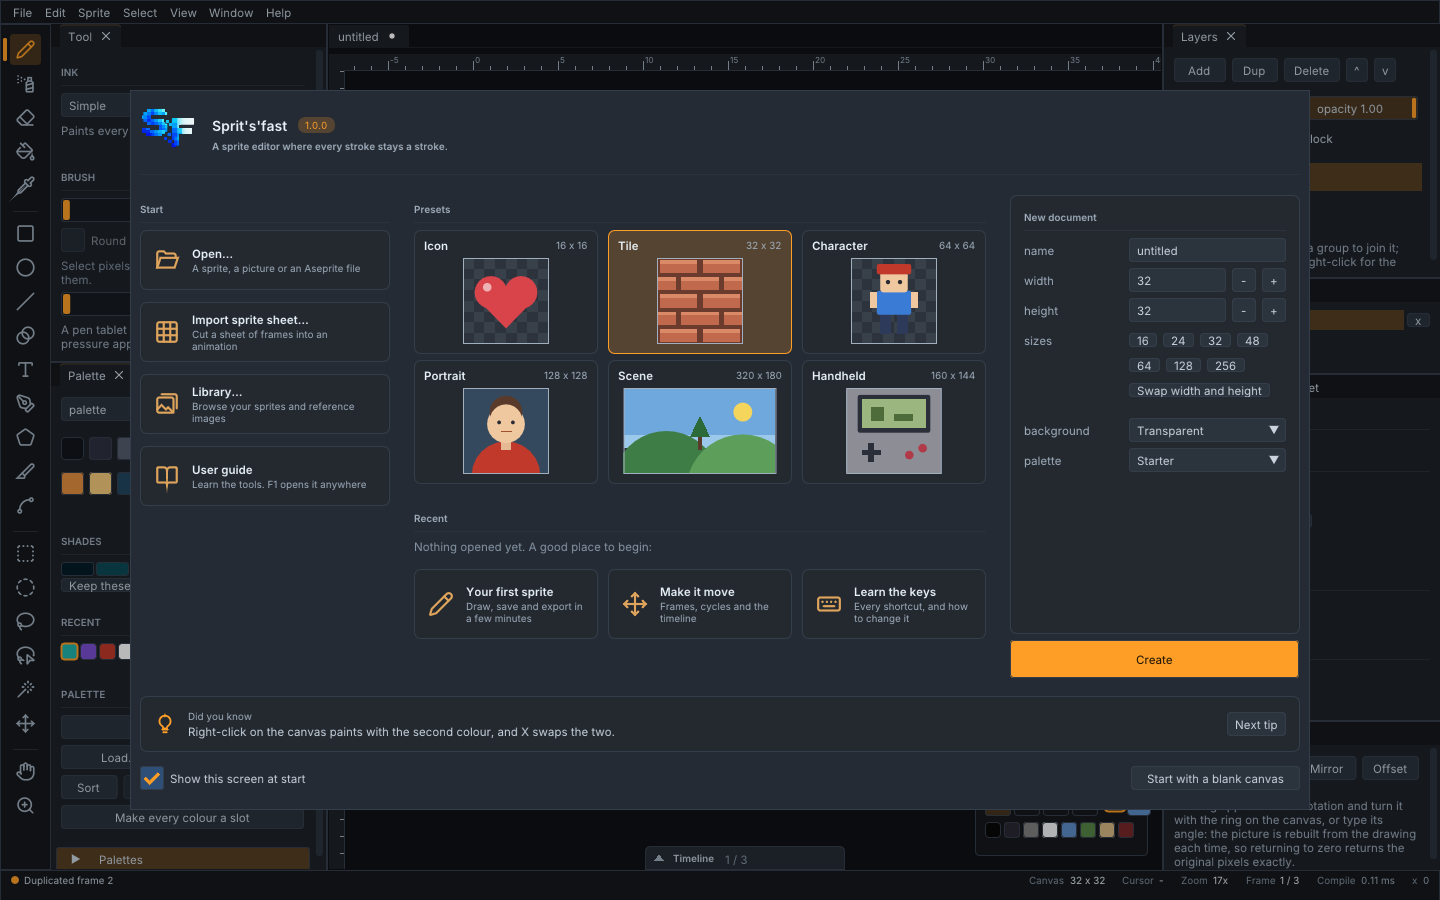
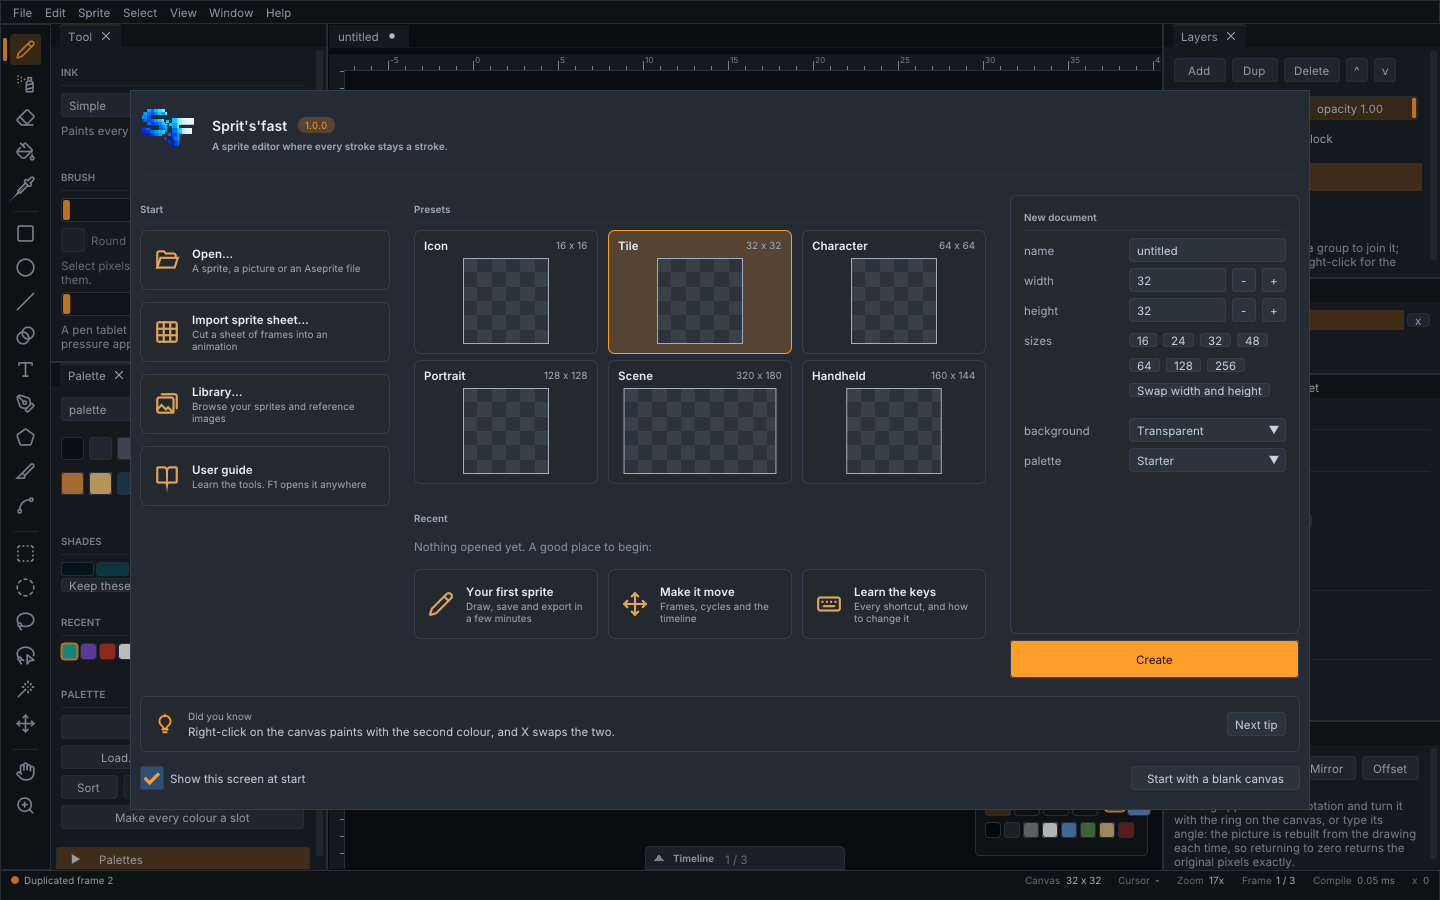
File > New is the start screen, and the preset illustrations are gone
New and Ctrl+N brought up a second, plainer window asking the questions the start screen asks. They now
bring up the start screen, with the same answers as they were left, and the old window and the state behind it
are removed.

The pictures on the preset cards (a heart, bricks, a figure, a face, a landscape, a handheld) were vector shapes
standing in for pixel art and did not look right; they are taken out, and the cards are the canvas in its proportions
on the chequer again, until there are real pixel examples to put there. The gallery loses its separate New screen
(it is the start screen), and the scripts that went through the old window wait for the start screen. The Store
screenshot of the start screen is taken again.

diff --git a/src/ui/start_screen.cpp b/src/ui/start_screen.cpp
@@ -11,7 +11,6 @@
 #include "app/tips.h"
 #include "ui/new_document.h"
 #include "ui/reference_cache.h"
-#include "ui/start_art.h"
 #include "ui/tabs.h"
 #include "ui/theme.h"
 #include "ui/thumbnails.h"
@@ -48,7 +47,7 @@ Branding& branding() {
     return b;
 }
 
-// The start screen asks the New window's questions in a panel of its own, over
+// The start screen asks File > New's questions in a panel of its own (File > New brings it up), over
 // the very same answers (Editor::files.newDocument): a template card fills
 // them in, the fields change them, and Create makes the document from them.
 void createFromAnswers(Editor& editor, CanvasView& canvas, SDL_Window* window) {
@@ -225,8 +224,8 @@ void drawActions(Editor& editor, CanvasView& canvas, SDL_Window* window) {
 // --- the middle: a new canvas, and what was being worked on --------------------------
 
 // One preset: its name and size, and the canvas it makes in its proportions (each fitted
-// to the card, not to one another) on the chequer the canvas will show, with a picture of
-// what the size is for. `chosen` is set by a press, `doubled` by a double press.
+// to the card, not to one another) on the chequer the canvas will show. `chosen` is set by
+// a press, `doubled` by a double press.
 void drawCard(const Editor& editor, const NewTemplate& t, const ImVec2& size, bool selected,
               bool* chosen, bool* doubled) {
     const theme::Palette& c = theme::palette();
@@ -280,7 +279,7 @@ void drawCard(const Editor& editor, const NewTemplate& t, const ImVec2& size, bo
     const ImU32 light = rgb(editor.prefs.checkerLight);
     const ImU32 dark = rgb(editor.prefs.checkerDark);
     draw->AddRectFilled(from, to, dark);
-    const float square = std::max(4.f, std::min(shape.x, shape.y) / 8.f);
+    const float square = std::max(4.f, std::min(shape.x, shape.y) / 6.f);
     draw->PushClipRect(from, to, true);
     for (float y = 0.f; y < shape.y; y += square) {
         for (float x = 0.f; x < shape.x; x += square) {
@@ -291,7 +290,6 @@ void drawCard(const Editor& editor, const NewTemplate& t, const ImVec2& size, bo
         }
     }
     draw->PopClipRect();
-    drawPresetArt(draw, t.name, from, to);
     draw->AddRect(from, to, u32(c.textDim));
 }
 

diff --git a/src/ui/dialogs.cpp b/src/ui/dialogs.cpp
@@ -1,7 +1,7 @@
 // SPDX-License-Identifier: Apache-2.0
 // Copyright (c) 2026 the Sprit's'fast authors
 
-// dialogs.cpp -- the windows that open from the menus: the sheet import, canvas and sprite size, adjust colours, modify selection, history, text, new document.
+// dialogs.cpp -- the windows that open from the menus: the sheet import, canvas and sprite size, adjust colours, modify selection, history and text. (New is the start screen.)
 // See app_internal.h for how the window's files divide.
 
 #include "ui/app_internal.h"
@@ -9,7 +9,6 @@
 #include "app/pixel_font.h"
 #include "app/file_io.h"
 #include "app/i18n.h"
-#include "ui/new_document.h"
 #include "ui/widgets.h"
 #include "ui/panels.h"
 #include "ui/theme.h"
@@ -135,30 +134,6 @@ void drawTextPanel(Editor& editor, CanvasView& canvas) {
         ImGui::CloseCurrentPopup();
     }
     ImGui::EndPopup();
-}
-
-// The New window: a size -- typed, or one of the sizes sprites are usually
-// drawn at -- what the canvas starts on, and which palette.
-void drawNewDocumentPanel(Editor& editor, CanvasView& canvas, SDL_Window* window) {
-    if (!editor.newDocumentOpen) {
-        return;
-    }
-    FileState::NewDocument& spec = editor.files.newDocument;
-    if (!widgets::beginDialog("New document", &editor.newDocumentOpen,
-                              widgets::DialogSize::Medium)) {
-        return;
-    }
-    const bool fits = drawNewDocumentFields(spec);
-    const int choice = widgets::dialogButtons("Create", "Cancel", fits);
-    if (choice == 1) {
-        editor.newDocumentOpen = false;
-        ImGui::CloseCurrentPopup();
-        requestAction(editor, canvas, window, PendingAction::NewDocument);
-    } else if (choice == 2) {
-        editor.newDocumentOpen = false;
-        ImGui::CloseCurrentPopup();
-    }
-    widgets::endDialog();
 }
 
 // The grid a sprite sheet is cut on. Numbers rather than a drawn grid on the

diff --git a/src/ui/shortcuts.cpp b/src/ui/shortcuts.cpp
@@ -10,6 +10,7 @@
 #include "ui/shape_tools.h"
 #include "ui/help.h"
 #include "ui/slice_tool.h"
+#include "ui/start_screen.h"
 #include "ui/tabs.h"
 #include "ui/selection_tools.h"
 #include "ui/timeline_drawer.h"
@@ -126,7 +127,7 @@ void handleShortcuts(Editor& editor, CanvasView& canvas, SDL_Window* window) {
     if (fired("colour.swap")) { swapInks(editor); }
 
     // Files.
-    if (fired("file.new")) { editor.newDocumentOpen = true; }
+    if (fired("file.new")) { openStartScreen(editor); }
     if (fired("file.open")) { requestAction(editor, canvas, window, PendingAction::OpenDialog); }
     if (fired("file.save")) { saveOrAsk(editor, canvas, window); }
     if (fired("file.save-as")) { showSaveAsDialog(editor.files, window, editor.doc); }

diff --git a/src/ui/menu_bar.cpp b/src/ui/menu_bar.cpp
@@ -34,8 +34,10 @@ void drawMenuBar(Editor& editor, CanvasView& canvas, SDL_Window* window) {
         return;
     }
     if (ImGui::BeginMenu(tr("File"))) {
+        // New is the start screen: the same presets and details, and the files to go back
+        // to, rather than a second, plainer window asking the same questions.
         if (ImGui::MenuItem(tr("New..."), keysLabel(editor.keys, "file.new").c_str())) {
-            editor.newDocumentOpen = true;
+            openStartScreen(editor);
         }
         if (ImGui::BeginMenu(tr("Autosave"))) {
             if (ImGui::MenuItem(tr("On"), nullptr, editor.autosaveOn,

diff --git a/src/ui/app_internal.h b/src/ui/app_internal.h
@@ -42,7 +42,6 @@ void drawMenuBar(Editor& editor, CanvasView& canvas, SDL_Window* window);
 
 void drawHistoryPanel(Editor& editor, CanvasView& canvas);
 void drawTextPanel(Editor& editor, CanvasView& canvas);
-void drawNewDocumentPanel(Editor& editor, CanvasView& canvas, SDL_Window* window);
 void drawSheetImportPanel(Editor& editor, CanvasView& canvas, SDL_Window* window);
 void drawCanvasSizePanel(Editor& editor, CanvasView& canvas);
 void drawAdjustPanel(Editor& editor, CanvasView& canvas);

diff --git a/src/ui/editor.h b/src/ui/editor.h
@@ -459,9 +459,6 @@ struct Editor {
     bool              animationFromCycle = true;
     AnimationSettings animation;
 
-    // Whether the New document window is up.
-    bool newDocumentOpen = false;
-
     // The start screen: what greets the person when the program opens, and
     // File > Start screen brings back. `startRecent` is looked up when it
     // opens, not every frame (see describeRecent).

diff --git a/src/ui/app_window.cpp b/src/ui/app_window.cpp
@@ -324,7 +324,6 @@ void drawWindow(Editor& editor, CanvasView& canvas, SDL_Window* window) {
     drawModifyPanel(editor);
     drawTilemapDialog(editor, canvas);
     drawAdjustPanel(editor, canvas);
-    drawNewDocumentPanel(editor, canvas, window);
     drawTextPanel(editor, canvas);
     drawHistoryPanel(editor, canvas);
     drawPreferencesPanel(editor, canvas, window);

diff --git a/docs/parity.md b/docs/parity.md
@@ -231,6 +231,8 @@ program greets, explains itself, remembers and is handed to someone.
 
 Newest first. One line per landed item, with the commit.
 
+- File > New and Ctrl+N bring up the start screen instead of a second, plainer New window asking the same questions (the old window and its state are gone); and the preset cards' illustrations (a heart, bricks, a figure, a face, a landscape, a handheld) are taken out: they were vector attempts at pixel art and did not look right, so the cards are the canvas in its proportions on the chequer, as before, until there are real pixel examples. `tests/ui/start_screen.txt` checks File > New and Ctrl+N show the screen and Escape puts it away; the gallery no longer has a separate new-document screen. Fast: 53 suites, 52 UI scripts (938 checks).
+
 - First impressions, from the owner's first look at the Store build: (1) the canvas is **always centred**: the fit used to push it aside to keep clear of the corner preview, so a new 64 x 64 sat left of the middle -- now the zoom gives way to the preview and the canvas stays centred (`expect centred`, `tests/ui/canvas_fit.txt`); and the artwork, zoomed or panned past the top of its area, was **drawn over the tab bar** (the tab bar and the canvas are one window and shared its clip rectangle) -- the canvas now clips its own drawing to its area. (2) The **recovery prompt** offers the newest copy only -- "Recover your work?" with a picture of it, its name or Untitled, when it was written, its size and frames, where it was being saved; Recover, Later, and Discard that asks twice -- and the older copies go to an `older` folder (ten kept) once it is dealt with; autosave copies now carry a thumbnail; core `findRecoveredWorkIn`, `summariseRecoveredWork`, `archiveOlderRecoveredWork`; script word `recovered FILE [PATH]`; `tests/ui/recovery_prompt.txt`. (3) The **start screen** was too empty and plain: a header with the logo, the name, the version and a tagline; action cards with icons (Open, Import sprite sheet, Library, User guide); preset cards that say what each size is for, with a picture (a heart, a brick wall, a figure, a face, a landscape, a handheld: `ui/start_art`); recent files as cards with the picture each save leaves in the file (`ui/thumbnails`, shared with the recovery prompt); and, on a first run with nothing recent, three ways into the guide (Your first sprite, Make it move, Learn the keys) instead of "nothing here"; the details of the new document on a card with Create under it, outside what scrolls (so at 150% on a small screen the button is never below the edge); the tip on a card with its own icon. Seven icons drawn for the program (`assets/icons/fast`, `theme::Icon::FolderOpen`...). Spanish for all of it. `tests/ui/start_welcome.txt`. Fast: 53 suites, 52 UI scripts (933 checks).
 
 - Every menu item and every keymap command is now touched by a test, and writing the tests found a bug. `tools/qa_matrix.py` writes `docs/qa-matrix.md` from the code (menu items, commands, core modules against the scripts and tests that touch them); the gaps were 63 menu items, 22 commands and one module, and are now none, bar Paste as reference, which needs a picture on the system clipboard and says so. New: `menu_file`, `menu_edit`, `menu_sprite`, `menu_select`, `menu_view`, `menu_window`, `keys_more`, `guides`, `quit` (UI scripts, 895 checks over 49 in all) and `text_util_tests`. To make File's items clickable the native dialogs are never shown while a script runs: the click records which was asked for (`expect dialog`), `answer` gives it a file; `menu A > B > C`, `expect flag NAME on|off`, `expect tiled`, `expect guides` are the new words. Scripted runs now keep the recent files and library folders in memory -- they had been reading, and writing over, the person's own lists. The bug: hiding the Preview (P, or View > Preview) left the canvas window with a cursor ImGui reported as an error on every frame (a red box and tooltip in a debug build); the rulers moved the cursor back without an item after it, and the preview overlay's items had been hiding it. A script now fails on any ImGui error, and the red box and the assert are off for everyone. Escape also puts away History, the Library, Slices and the Interface kit, through one `widgets::escapePutsAway` (a popup open over the window takes the key first). A script that ends in Quit still reports its checks.

diff --git a/docs/handoff.md b/docs/handoff.md
@@ -64,7 +64,7 @@ From PowerShell in this folder:
 |---|---|---|
 | Core and tests | `.\build.bat test` | `build\`, no window, a minute and a half; 53 suites |
 | The window | `.\build-gui.bat` | `build-gui\sprits_fast.exe`; SDL3 the first time takes minutes |
-| UI scripts | `.\tools\run_scripts.ps1` | 52 scripts, 933 checks; all must pass, and none may draw an ImGui error; CI runs them (one: `.\build-gui\sprits_fast.exe --script tests\ui\<name>.txt`) |
+| UI scripts | `.\tools\run_scripts.ps1` | 52 scripts, 938 checks; all must pass, and none may draw an ImGui error; CI runs them (one: `.\build-gui\sprits_fast.exe --script tests\ui\<name>.txt`) |
 | What no test touches | `python tools\qa_matrix.py` | writes `docs\qa-matrix.md`: every menu item, command and core module against its tests; the gaps list is empty |
 | Fuzzing | `.\tools\fuzz.ps1` | 21 targets under libFuzzer and AddressSanitizer; see `docs\fuzzing.md` |
 | The gallery | `.\tools\gallery.ps1` | every screen in every theme at 100% and 150%, 270 images and a contact sheet per screen in `build-gui\gallery`; look at it before calling a visual change done |
@@ -162,7 +162,7 @@ starts with a comment saying what it is and why.
 - `app_window.cpp` holds the window's layout and the main loop. What it once held
   is split, and shared through `app_internal.h`: `menu_bar` (the menus), `dialogs`
   (the windows that open from them: canvas and sprite size, adjust colours, the sheet
-  import, history, text, New), `preferences_panel`, `file_actions` (open, save,
+  import, history, text), `preferences_panel`, `file_actions` (open, save,
   close, quit and the questions in front of them), `stroke_input` (what the mouse
   does on the canvas), `shortcuts` (what the keys do), `headless` (the command line)
   and `self_test`.

diff --git a/docs/gold-plan.md b/docs/gold-plan.md
@@ -72,7 +72,7 @@ Status: `[ ]` not started, `[~]` partly, `[x]` done. Each item is a commit.
       written from the code; CI checks it is current
 - [x] Gaps filled: 63 menu items, 22 commands and one module were untouched; now none
       (Paste as reference needs a system-clipboard picture and says so). Nine new UI
-      scripts, `text_util_tests`; 49 scripts and 53 suites pass (52 and 933 checks since the start screen and the recovery prompt)
+      scripts, `text_util_tests`; 49 scripts and 53 suites pass (52 and 938 checks since the start screen and the recovery prompt)
 - [x] A script fails on any ImGui error; that found a real bug (hiding the Preview left
       the canvas window with a cursor ImGui flagged every frame), fixed
 - [~] The hand-run checks in `docs/testing.md`: the ones a script can do are already
@@ -107,7 +107,7 @@ Status: `[ ]` not started, `[~]` partly, `[x]` done. Each item is a commit.
       left to the owner (documented in `store/certification-notes.md`)
 
 ### 6. Final
-- [x] Release build; 53 suites, the self-test and all 52 UI scripts (933 checks) pass on
+- [x] Release build; 53 suites, the self-test and all 52 UI scripts (938 checks) pass on
       the debug build and on the release exe that goes in the package; the fuzz quick run
       is one of the suites; the gallery matches; the Store screenshots still equal the
       gallery's images; `dist\SpritsFast-1.0.0.0-x64.msix` rebuilt (4.5 MB)

diff --git a/assets/help/01-getting-started.md b/assets/help/01-getting-started.md
@@ -6,15 +6,14 @@ Five minutes from an empty canvas to a sprite you can use.
 
 When the program opens it shows the **start screen**. On the left, the ways in: **Open...**,
 **Import sprite sheet...**, the **Library**, and this **User guide**. In the middle, a card for
-each preset size with a picture of what it is for, and under them the files you opened
-recently, each with a picture of its own (the first time, there are three ways into this guide
-instead). On the right, the details of the new document, and a tip below. Pick a preset card
+each preset size, and under them the files you opened recently, each with a picture of its
+own (the first time, there are three ways into this guide instead). On the right, the details of the new document, and a tip below. Pick a preset card
 (**Tile 32 x 32** is a good first one) and press **Create**, or choose **Start with a blank
 canvas**.
 
 To make a canvas of your own size, set the width and height on the right of the start
-screen, or use **File > New**, which asks the same questions: name, size, background and
-the starting palette.
+screen: name, size, background and the starting palette. **File > New** (Ctrl+N) brings the start
+screen up for the same questions.
 
 > You can bring the start screen back any time with **File > Start screen**.
 

diff --git a/docs/qa-matrix.md b/docs/qa-matrix.md
@@ -125,7 +125,7 @@ each gap gets a script or a test case until the list is empty (or the item is ex
 |---|---|---|---|---|
 | Tools | `tool.pencil` | Pencil | cel_opacity.txt, command_search.txt, custom_brush.txt +21 | keymap_tests.cpp |
 | Tools | `tool.spray` | Spray | fill_and_keys.txt, panels_fit.txt | none |
-| Tools | `tool.eraser` | Eraser | cel_opacity.txt, command_search.txt, copy_shapes.txt +24 | keymap_tests.cpp |
+| Tools | `tool.eraser` | Eraser | cel_opacity.txt, command_search.txt, copy_shapes.txt +25 | keymap_tests.cpp |
 | Tools | `tool.bucket` | Fill | fill_and_keys.txt, panels_and_menus.txt, panels_fit.txt +2 | none |
 | Tools | `tool.gradient` | Gradient | fill_and_keys.txt, panels_fit.txt, rotate_and_fill.txt | none |
 | Tools | `tool.picker` | Pick colour | fill_and_keys.txt | none |
